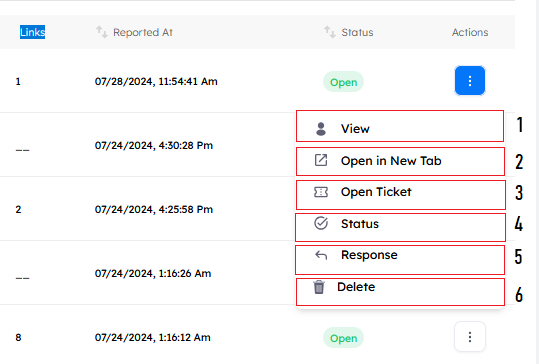
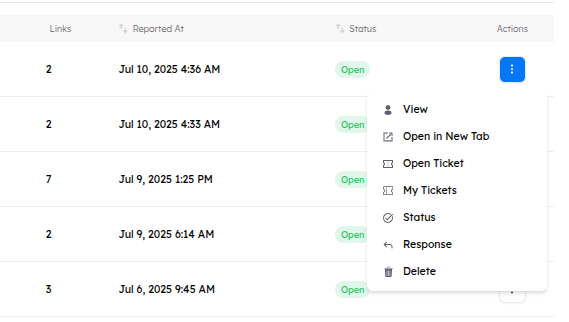
fix download white page

diff --git a/index.html b/index.html
@@ -241,6 +241,16 @@
     display: none;
   }
 }
+
+.markdown-section, .markdown-section * {
+  page-break-inside: avoid !important;
+  break-inside: avoid !important;
+}
+
+.markdown-section {
+  padding-top: 0 !important;
+  margin-top: 0 !important;
+}
       
     </style>
   </head>
@@ -265,20 +275,122 @@
             if (content) content.classList.toggle('shifted');
       }
 
+
+
+      
+
       function downloadPageAsPDF() {
-        const element = document.querySelector('.markdown-section');
-        if (!element) return;
+  // Hide elements that shouldn't be in PDF
+  const elementsToHide = [
+    '#download-btn',
+    '#toc-toggle',
+    '.page_toc',
+    '.sidebar-toggle',
+    '.sidebar',
+    '.app-nav',
+    '.progress'
+  ];
+  
+  // Show loading indicator
+  const loading = document.createElement('div');
+  loading.style.position = 'fixed';
+  loading.style.top = '0';
+  loading.style.left = '0';
+  loading.style.width = '100%';
+  loading.style.height = '100%';
+  loading.style.backgroundColor = 'rgba(0,0,0,0.5)';
+  loading.style.display = 'flex';
+  loading.style.justifyContent = 'center';
+  loading.style.alignItems = 'center';
+  loading.style.zIndex = '9999';
+  loading.innerHTML = '<div style="color: white; font-size: 24px;">Generating PDF...</div>';
+  document.body.appendChild(loading);
 
-        const opt = {
-          margin:       0.5,
-          filename:     'page.pdf',
-          image:        { type: 'jpeg', quality: 0.98 },
-          html2canvas:  { scale: 2 },
-          jsPDF:        { unit: 'in', format: 'a4', orientation: 'portrait' }
-        };
+  // Hide elements
+  elementsToHide.forEach(selector => {
+    const el = document.querySelector(selector);
+    if (el) el.style.visibility = 'hidden';
+  });
 
-        html2pdf().set(opt).from(element).save();
+  // Get the element to print
+  const element = document.querySelector('.markdown-section');
+  if (!element) return;
+
+  // PDF options
+  const opt = {
+    margin: [0.5, 0.5, 0.5, 0.5],
+    filename: 'documentation.pdf',
+    image: { type: 'jpeg', quality: 0.98 },
+    html2canvas: { 
+      scale: 2,
+      scrollY: 0,
+      useCORS: true,
+      allowTaint: true,
+      letterRendering: true
+    },
+    jsPDF: { 
+      unit: 'in', 
+      format: 'a4', 
+      orientation: 'portrait',
+      compress: true
+    },
+    pagebreak: { 
+      mode: ['avoid-all', 'css', 'legacy'],
+      before: '.page-break'
+    }
+  };
+
+  // Generate PDF
+  html2pdf()
+    .set(opt)
+    .from(element)
+    .toPdf()
+    .get('pdf')
+    .then(function(pdf) {
+      const totalPages = pdf.internal.getNumberOfPages();
+      for (let i = 1; i <= totalPages; i++) {
+        pdf.setPage(i);
+        pdf.setFontSize(10);
+        pdf.setTextColor(150);
+        pdf.text(
+          'Page ' + i + ' of ' + totalPages,
+          pdf.internal.pageSize.getWidth() - 2,
+          pdf.internal.pageSize.getHeight() - 0.5
+        );
       }
+    })
+    .save()
+    .then(() => {
+      elementsToHide.forEach(selector => {
+        const el = document.querySelector(selector);
+        if (el) el.style.visibility = 'visible';
+      });
+      document.body.removeChild(loading);
+    })
+    .catch(err => {
+      elementsToHide.forEach(selector => {
+        const el = document.querySelector(selector);
+        if (el) el.style.visibility = 'visible';
+      });
+      document.body.removeChild(loading);
+      alert('Failed to generate PDF. Please try again.');
+    });
+}
+
+    // function downloadPageAsPDF() {
+    //     const element = document.querySelector('.markdown-section');
+    //     if (!element) return;
+
+    //     const opt = {
+    //       margin:       0.5,
+    //       filename:     'page.pdf',
+    //       image:        { type: 'jpeg', quality: 0.98 },
+    //       html2canvas:  { scale: 2 },
+    //       jsPDF:        { unit: 'in', format: 'a4', orientation: 'portrait' }
+    //     };
+
+    //     html2pdf().set(opt).from(element).save();
+    //   }
 
       window.$docsify = {
         toc: {

diff --git a/modules/do/campaign.md b/modules/do/campaign.md
@@ -10,22 +10,22 @@ Upon accessing the Campaigns tab, users will encounter key indicators at the top
 
 ### Campaign Features
 
-- **Campaign Details and outer metadata**
-    A comprehensive information bar is situated above the campaigns, displaying essential details such as the campaign `full name`, `type`, `associated page`, `number of templates used`, `success category`, `start date`, and available `actions` for further management.
+#### **Campaign Details and outer metadata**
+A comprehensive information bar is situated above the campaigns, displaying essential details such as the campaign `full name`, `type`, `associated page`, `number of templates used`, `success category`, `start date`, and available `actions` for further management.
 
-    1. **Full Name** By default, the displayed campaigns are organized with the most recently created campaigns appearing first. Users can easily reorganize the list in ascending or descending order by using the arrows located next to the full campaign name in the information bar.
+1. **Full Name** By default, the displayed campaigns are organized with the most recently created campaigns appearing first. Users can easily reorganize the list in ascending or descending order by using the arrows located next to the full campaign name in the information bar.
 
-    2. **Campaign Type** Specify the type of campaign being utilized, such as "Email with Attachment" or "Email with Page," among other options.
+2. **Campaign Type** Specify the type of campaign being utilized, such as "Email with Attachment" or "Email with Page," among other options.
 
-    3. **associated page** Provide the name of the page associated with the campaign, applicable only for campaign types "Email with Page," "Email with QR Code," or "Image with QR Code."
+3. **associated page** Provide the name of the page associated with the campaign, applicable only for campaign types "Email with Page," "Email with QR Code," or "Image with QR Code."
 
-    4. **Templates** Specify the number of templates being utilized in the campaign.
+4. **Templates** Specify the number of templates being utilized in the campaign.
 
-    5. **Success Category** Specify the success category that, if achieved, will classify the campaign as successful.
+5. **Success Category** Specify the success category that, if achieved, will classify the campaign as successful.
 
-    6. **Start Date** This information allows you to determine whether the campaign is scheduled for a specific start date or if it will be launched immediately.
+6. **Start Date** This information allows you to determine whether the campaign is scheduled for a specific start date or if it will be launched immediately.
 
-    7. **Actions** View, Edit, Export, Clone, Open Ticket, Clear Ticket, Delete
+7. **Actions** View, Edit, Export, Clone, Open Ticket, Clear Ticket, Delete
 
 ***
 - **Search Functionality**
@@ -140,14 +140,16 @@ This section displays all the campaign settings, including the tracker host, suc
 Once the campaign is launched, this section displays data on various metrics, including the total number of phishing emails sent, emails opened, links clicked, saved credentials, USB access, and a timeline of campaign activities. It also provides daily insights while the campaign is running, such as the number of specific interactions (e.g., 105 tracks on a given day for emails sent, links opened, and credentials saved).
 
 ![Do-Phish Campaign Chart!](../../assets/do/campaign_chart.png "Do-Phish Campaign Chart")
+
 ***
+
 - **Campaigns Targets** Upon navigating to the `Campaign Targets`, you can manage the targets for the phishing campaign. Here, you can customize the number of targets displayed by adjusting the pagination settings at the bottom of the box.
 ![Do-Phish Campaign Target!](../../assets/do/campaign_target.png "Do-Phish Campaign Target")
     1. **Search Functionality** Located at the top right corner, the search button allows you to find a target by its Name, Email, Title and Department quickly
     2. **Import Targets** This button enables you to upload a bulk list of targets to your phishing campaign using two methods:
         - **CSV Sample** When selected, a CSV template containing the necessary data fields will be downloaded automatically. After filling in your target information, select the completed file and upload it to the system.
         
-        - **LDAP Integration** Connects the client’s tenant to their on-premises Active Directory, allowing them to pull targets directly into the phishing campaign.
+ - **LDAP Integration** Connects the client’s tenant to their on-premises Active Directory, allowing them to pull targets directly into the phishing campaign.
         
     3. **Export Targets** The `Export Targets` button allows users to download an Excel file containing target data used in the campaign. This feature enables easy access to and analysis of campaign targets.
         
@@ -182,13 +184,13 @@ Once the campaign is launched, this section displays data on various metrics, in
     ![Do-Phish campaign post campaign!](../../assets/do/campaign_post_campaign.png "Do-Phish campaign post campaign")
 
     ##### These actions allow for customized follow-up and effective user tracking post-campaign.
-        - **Execute** The `Execute button` manually triggers selected post-campaign actions for past campaign data.
-            While post campaign actions typically run automatically, this option allows you to apply them 
-            `retroactively` if needed.
-            ![Do-Phish campaign post campaign execute!](../../assets/do/campaign_post_campaign_execute.png "Do-Phish campaign post campaign execute")
-        - **Update** The Update button allows you to add or modify post-campaign actions.
-            - **Before Campaign Launch** Simply add or edit post-campaign actions, then launch as usual.
-            - **After Campaign Launch** If the campaign is already running and you wish to add new actions, select the desired action and use the `Execute button` to apply it retroactively based on its trigger conditions.
+    - **Execute** The `Execute button` manually triggers selected post-campaign actions for past campaign data.
+        While post campaign actions typically run automatically, this option allows you to apply them 
+        `retroactively` if needed.
+        ![Do-Phish campaign post campaign execute!](../../assets/do/campaign_post_campaign_execute.png "Do-Phish campaign post campaign execute")
+    - **Update** The Update button allows you to add or modify post-campaign actions.
+        - **Before Campaign Launch** Simply add or edit post-campaign actions, then launch as usual.
+        - **After Campaign Launch** If the campaign is already running and you wish to add new actions, select the desired action and use the `Execute button` to apply it retroactively based on its trigger conditions.
 ***
 - **Saved Credentials** This feature provides insights into the credentials saved by `Targets` during a campaign. It highlights the domains users submitted credentials for, and whether the credentials were numeric or not.
 
@@ -219,22 +221,24 @@ Once the campaign is launched, this section displays data on various metrics, in
 - **Latest Trackers** The `Latest Trackers feature` offers detailed insights on target actions within a campaign, 
 supporting security monitoring and target behavior analysis. Key details include:
 
-    - **Location** The origin of credential submissions.
-    - **IP Address and VPN Usage** Information on target IPs and VPN access.
-    - **User Agent** Browser or app used (e.g., Chrome, Edge).
-    ![Do-Phish campaign_latest_tracker!](../../assets/do/campaign_latest_tracker.png "Do-Phish campaign_latest_tracker")
+- **Location** The origin of credential submissions.
+- **IP Address and VPN Usage** Information on target IPs and VPN access.
+- **User Agent** Browser or app used (e.g., Chrome, Edge).
+![Do-Phish campaign_latest_tracker!](../../assets/do/campaign_latest_tracker.png "Do-Phish campaign_latest_tracker")
 
-    - **Export Excel** This button allows you to download an Excel report containing all tracker data for the campaign. The report includes:
-        - **Campaign Name** Identifies the campaign the trackers belong to.
-        - **Target Email** Lists each target’s email address.
-        - **Tracker Category** Details tracker status, such as `Link Opened`, `Credentials Saved`, `Email Sent`, etc.
-        - **Date** The date each action was taken.
+- **Export Excel** This button allows you to download an Excel report containing all tracker data for the campaign. The report includes:
+    - **Campaign Name** Identifies the campaign the trackers belong to.
+    - **Target Email** Lists each target’s email address.
+    - **Tracker Category** Details tracker status, such as `Link Opened`, `Credentials Saved`, `Email Sent`, etc.
+    - **Date** The date each action was taken.
 
-        >[!Note]
-        >This report provides a comprehensive overview of target interactions, aiding in detailed campaign analysis and record-keeping.
+    >[!Note]
+    >This report provides a comprehensive overview of target interactions, aiding in detailed campaign analysis and record-keeping.
 
-        ![Do-Phish campaign_latest_tracker_report!](../../assets/do/campaign_latest_tracker_report.png "Do-Phish campaign_latest_tracker_report")
+    ![Do-Phish campaign_latest_tracker_report!](../../assets/do/campaign_latest_tracker_report.png "Do-Phish campaign_latest_tracker_report")
+
 ***
+
 - **Header**
     1. **Test Mode**
         - The `Test Mode` feature enables campaign to simulate a campaign without affecting actual analytics, reports, or user metrics. This is especially useful for testing email delivery and template rendering and ensuring the campaign behaves as expected before going live.

diff --git a/modules/detect/analyzed_emails.md b/modules/detect/analyzed_emails.md
@@ -66,23 +66,27 @@ The true power of the dPhish Detect module is in the capabilities it provides to
 2. **Open in New Tab**
     Opens the scan results page, the same page as in View, for the reported email in a new tab. 
 
-3. **Open Ticket**
+3. **My Ticket**
+    Allow user to show all tickets and comment of the email.
+
+4. **Open Ticket**
     Open the ticket creation menu where administrators can assign email analysis tickets to a human analyst to investigate and triage the reported email. The UI of the menu is as follows:
 
     1. **Title**: The title of the new ticket.
-    2. **User**: The human analyst that will be assigned the ticket. The value of this item can be any of the users registered on the platform.
+    2. **Priority**: To select the priority of the ticket
+    4. **User**: The human analyst that will be assigned the ticket. The value of this item can be any of the users registered on the platform.
     3. **Email**: If the analyst that will be assigned the ticket is not a registered user on the platform, the ticket can still be assigned to them, and an email notification will be sent notifying them of the ticket.
-    4. **Notify**: Select if you want an email notification sent to the assigned person.
-    5. **Details**: Extra information that will be sent to the assigned person along with the ticket notification.
+    5. **Notify**: Select if you want an email notification sent to the assigned person.
+    6. **Details**: Extra information that will be sent to the assigned person along with the ticket notification.
 
     ![Detect-Phish analyzed emails open ticket!](../../assets/detect/analyzedEmails/emails_open_ticket.png "Detect-Phish analyzed emails open ticket")
 
-4. **Status**
+5. **Status**
     Used to set the status of the reported email. Each reported email represents a case on the platform. The status of this case depends on the investigation results of the security analysts. The status of a case can be Open, In Progress, Resolved, or False Positive.
 
     ![Detect-Phish analyzed emails status!](../../assets/detect/analyzedEmails/emails_status.png "Detect-Phish analyzed emails status")
 
-5. **Response**
+6. **Response**
     Once an investigation of a reported email is complete and the final verdict is malicious, it’s crucial to accurately assess the situation to respond to the threat. The response feature allows analysts to search for an email, using either the sender or the subject of the email, over every mailbox in the organization. This search process, also called Scope, will aggregate all emails in the organization that match the search criteria and display them in a listing to the analyst. The UI of the response page is simple yet powerful:
 
     1. **Delete**: Delete the selected email from the view page. This will delete the email from the mailbox of the reported.
@@ -94,3 +98,5 @@ The true power of the dPhish Detect module is in the capabilities it provides to
     4. **Scope by Subject**: Searches for emails in the organization that have the same subject as the reported email.
     5. **Search**: Once the search is over, the page is populated with emails that matched the search criteria. Analysts can then take actions on these emails such as mass deletion or mass quarantine.
     6. **Delete**: Deletes the selected email from the dashboard listing. Any tickets opened on the deleted entry will be deleted as well. Note that this DOES NOT delete the email from the reporter’s mailbox, that what response does, it just deletes it from the platform.
+
+7. **Delete**: Delete the email. This will delete the email from the mailbox of the reported.
